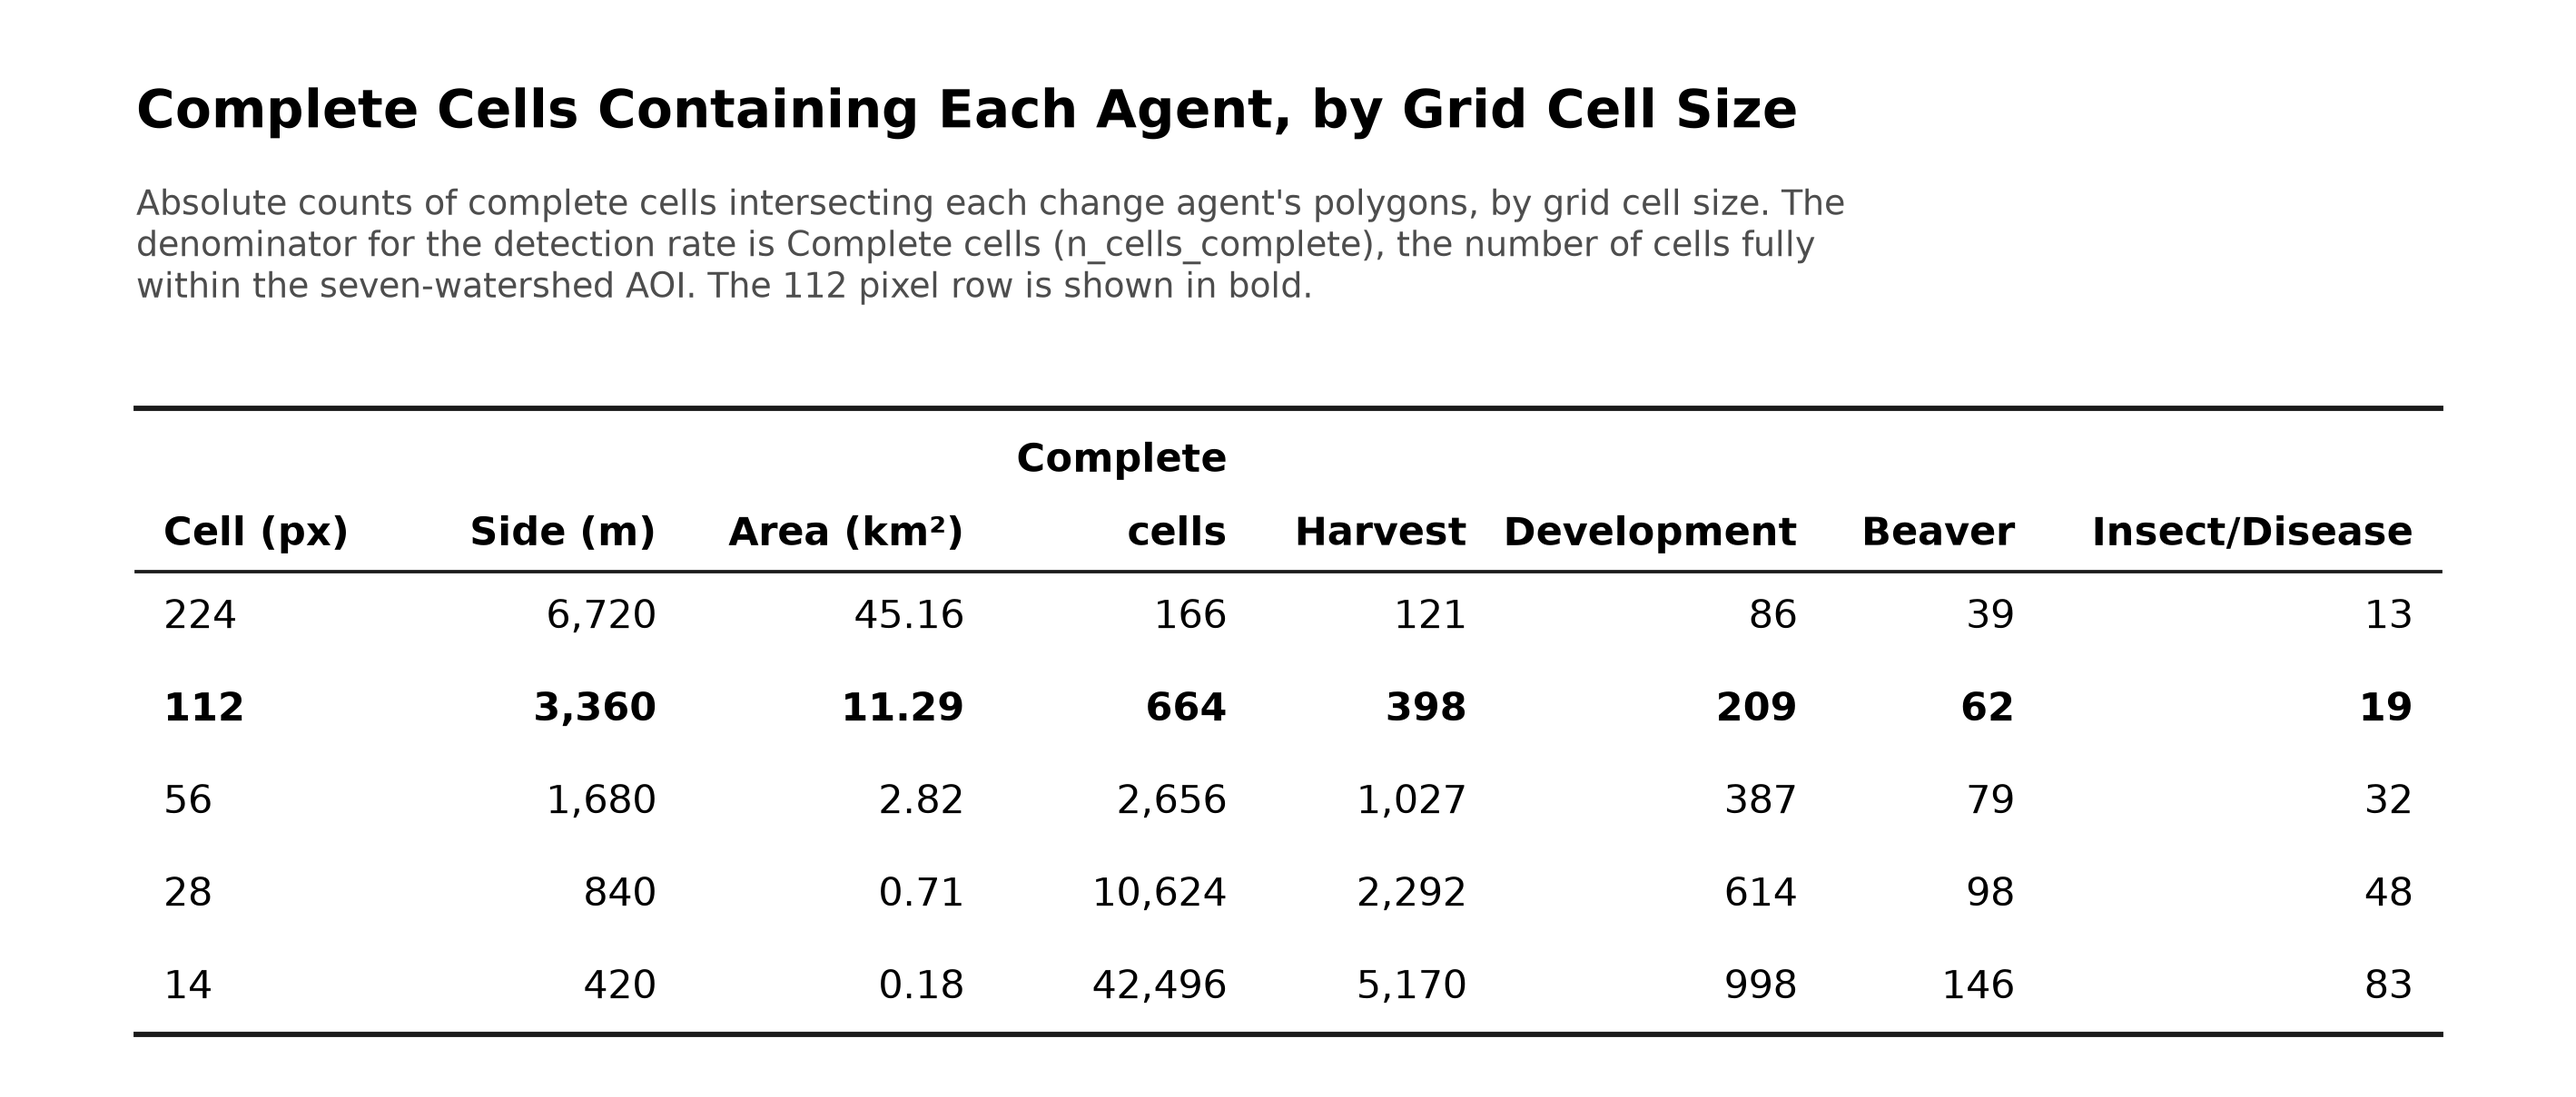
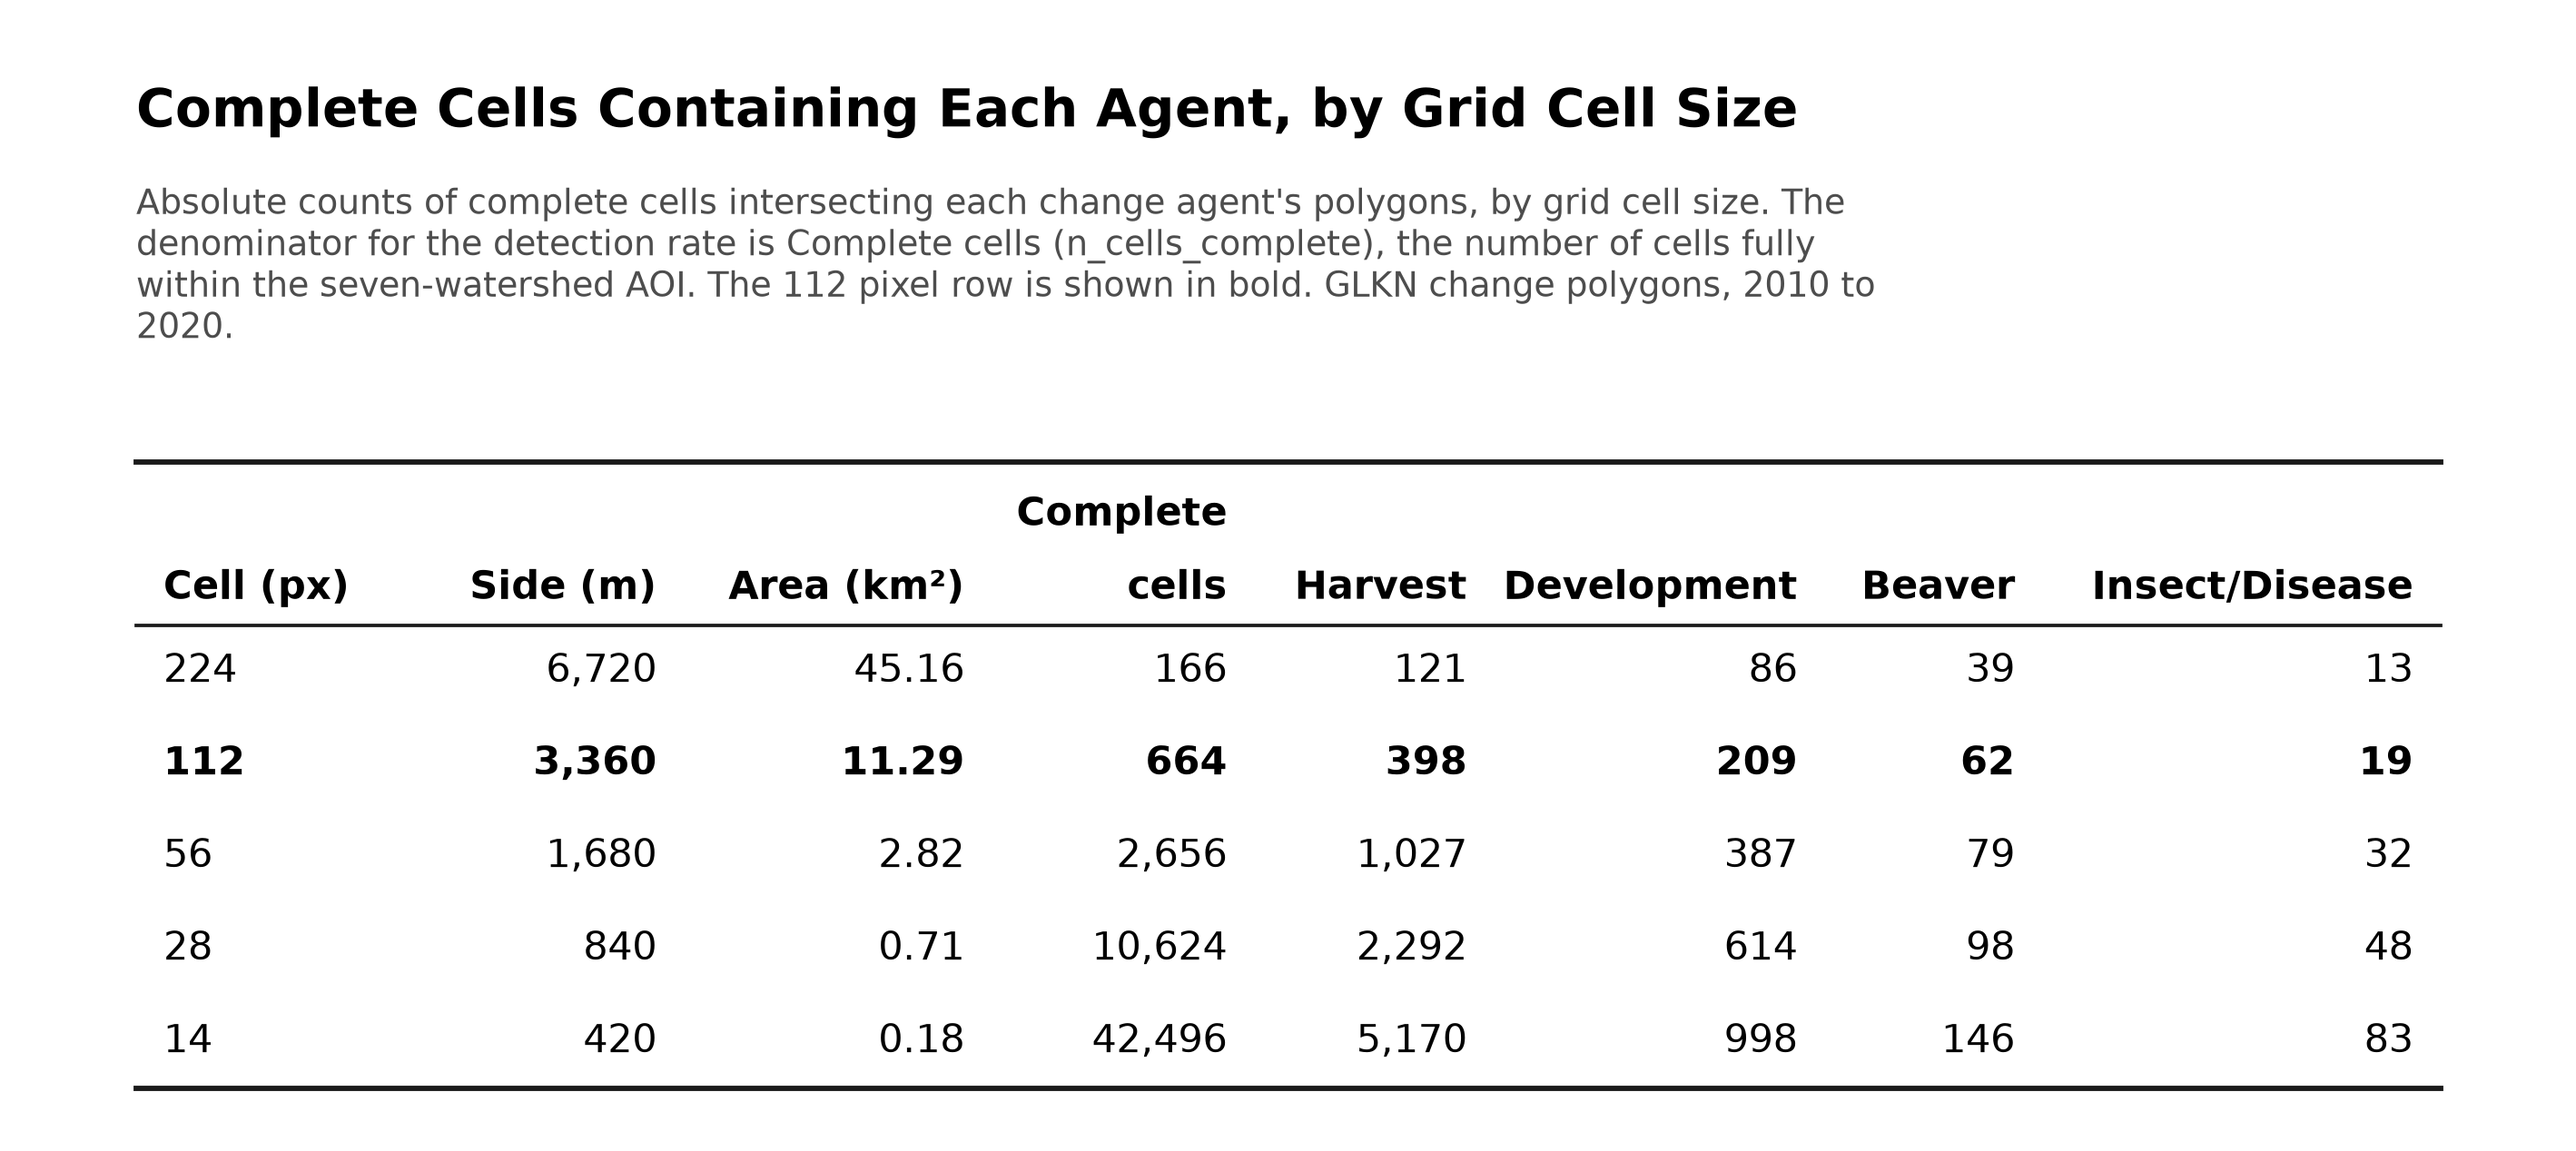
Set the GLKN change window to 2010 to 2020 in Chapter 3 tables and caption
Insert the 2010 to 2020 year window into the three Chapter 3 table captions and the
Table C subtitle, drop the "window not recorded" notes, and update the
change-detection-rate figure caption to state the same window.

diff --git a/scripts/build_chapter3_tables.py b/scripts/build_chapter3_tables.py
@@ -219,8 +219,7 @@ def main():
          "Fraction of complete cells, fully within the seven-watershed area of interest (AOI), that "
          "contain at least one polygon of each change agent, by grid cell size. Detection rate is "
          "n_with_change divided by n_cells_complete. The 112 pixel cell (11.29 square kilometers), the "
-         "selected size, is shown in bold. GLKN change polygons; the source export does not record a "
-         "year window.",
+         "selected size, is shown in bold. GLKN change polygons, 2010 to 2020.",
          a_headers, a_rows, a_aligns, pd.DataFrame(a_tidy), bold_rows=bold_idx)
 
     # --- table B: absolute counts of complete cells with change, by cell size ---
@@ -239,7 +238,8 @@ def main():
          "Complete Cells Containing Each Agent, by Grid Cell Size", None,
          "Absolute counts of complete cells intersecting each change agent's polygons, by grid cell "
          "size. The denominator for the detection rate is Complete cells (n_cells_complete), the number "
-         "of cells fully within the seven-watershed AOI. The 112 pixel row is shown in bold.",
+         "of cells fully within the seven-watershed AOI. The 112 pixel row is shown in bold. GLKN "
+         "change polygons, 2010 to 2020.",
          b_headers, b_rows, b_aligns, pd.DataFrame(b_tidy), bold_rows=bold_idx)
 
     # --- table C: disturbance polygon size by agent (from the polygon-size summary) ---
@@ -265,9 +265,8 @@ def main():
     if beaver_missing:
         foot += (" Beaver is absent from the polygon-size export and is not shown here; rerun the GEE "
                  "export to include it.")
-    foot += " The source export does not record a year window."
     emit("chapter3_table_polygon_size_by_agent",
-         "Disturbance Polygon Size by Agent", "GLKN watersheds",
+         "Disturbance Polygon Size by Agent", "GLKN watersheds, 2010 to 2020",
          None, c_headers, c_rows, c_aligns, pd.DataFrame(c_tidy), footnote=foot)
 
     print("\nsummary:")

diff --git a/manuscript_formatting/chapter_3/change_detection_rate_vs_cell_area_caption.md b/manuscript_formatting/chapter_3/change_detection_rate_vs_cell_area_caption.md
@@ -27,8 +27,7 @@ noise. No aggregate "any change" line is drawn: the per-agent `n_with_change` co
 contain more than one agent, and a sum across agents would double-count, and the export has no
 all-agent row.
 
-The year window of the polygons is not recorded in this export (the file name and columns carry no
-year field), so it is not asserted here.
+The GLKN change polygons span the 2010 to 2020 year window.
 
 Source: `reports/GLKN_change_agents/glkn_grid_proportions_per_agent_5070_4agent.csv` (EPSG:5070).
 Script: `manuscript_formatting/chapter_3/plot_change_detection_rate.R`.
